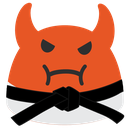
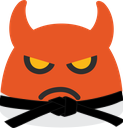
New devil blob

diff --git a/all-blobs.md b/all-blobs.md
@@ -20,7 +20,7 @@
 
 ![blobkaratefistbump](https://cdn.discordapp.com/emojis/634945412062773248.png?v=1&size=32) - Blobkaratefistbump [(Big image)](https://karateblobs.js.org/blobs/blobkaratefistbump.png)
 
-![blobkaratedevil](https://cdn.discordapp.com/emojis/634946527525208114.png?v=1&size=32) - Blobkaratedevil [(Big image)](https://karateblobs.js.org/blobs/blobkaratedevil.png)
+![blobkaratedevil](https://cdn.discordapp.com/emojis/692355215302590484.png?v=1&size=32) - Blobkaratedevil [(Big image)](https://karateblobs.js.org/blobs/blobkaratedevil.png)
 
 ![blobkaratesmile2](https://cdn.discordapp.com/emojis/634947132993830912.png?v=1&size=32) - Blobkaratesmile2 [(Big image)](https://karateblobs.js.org/blobs/blobkaratesmile2.png)
 
